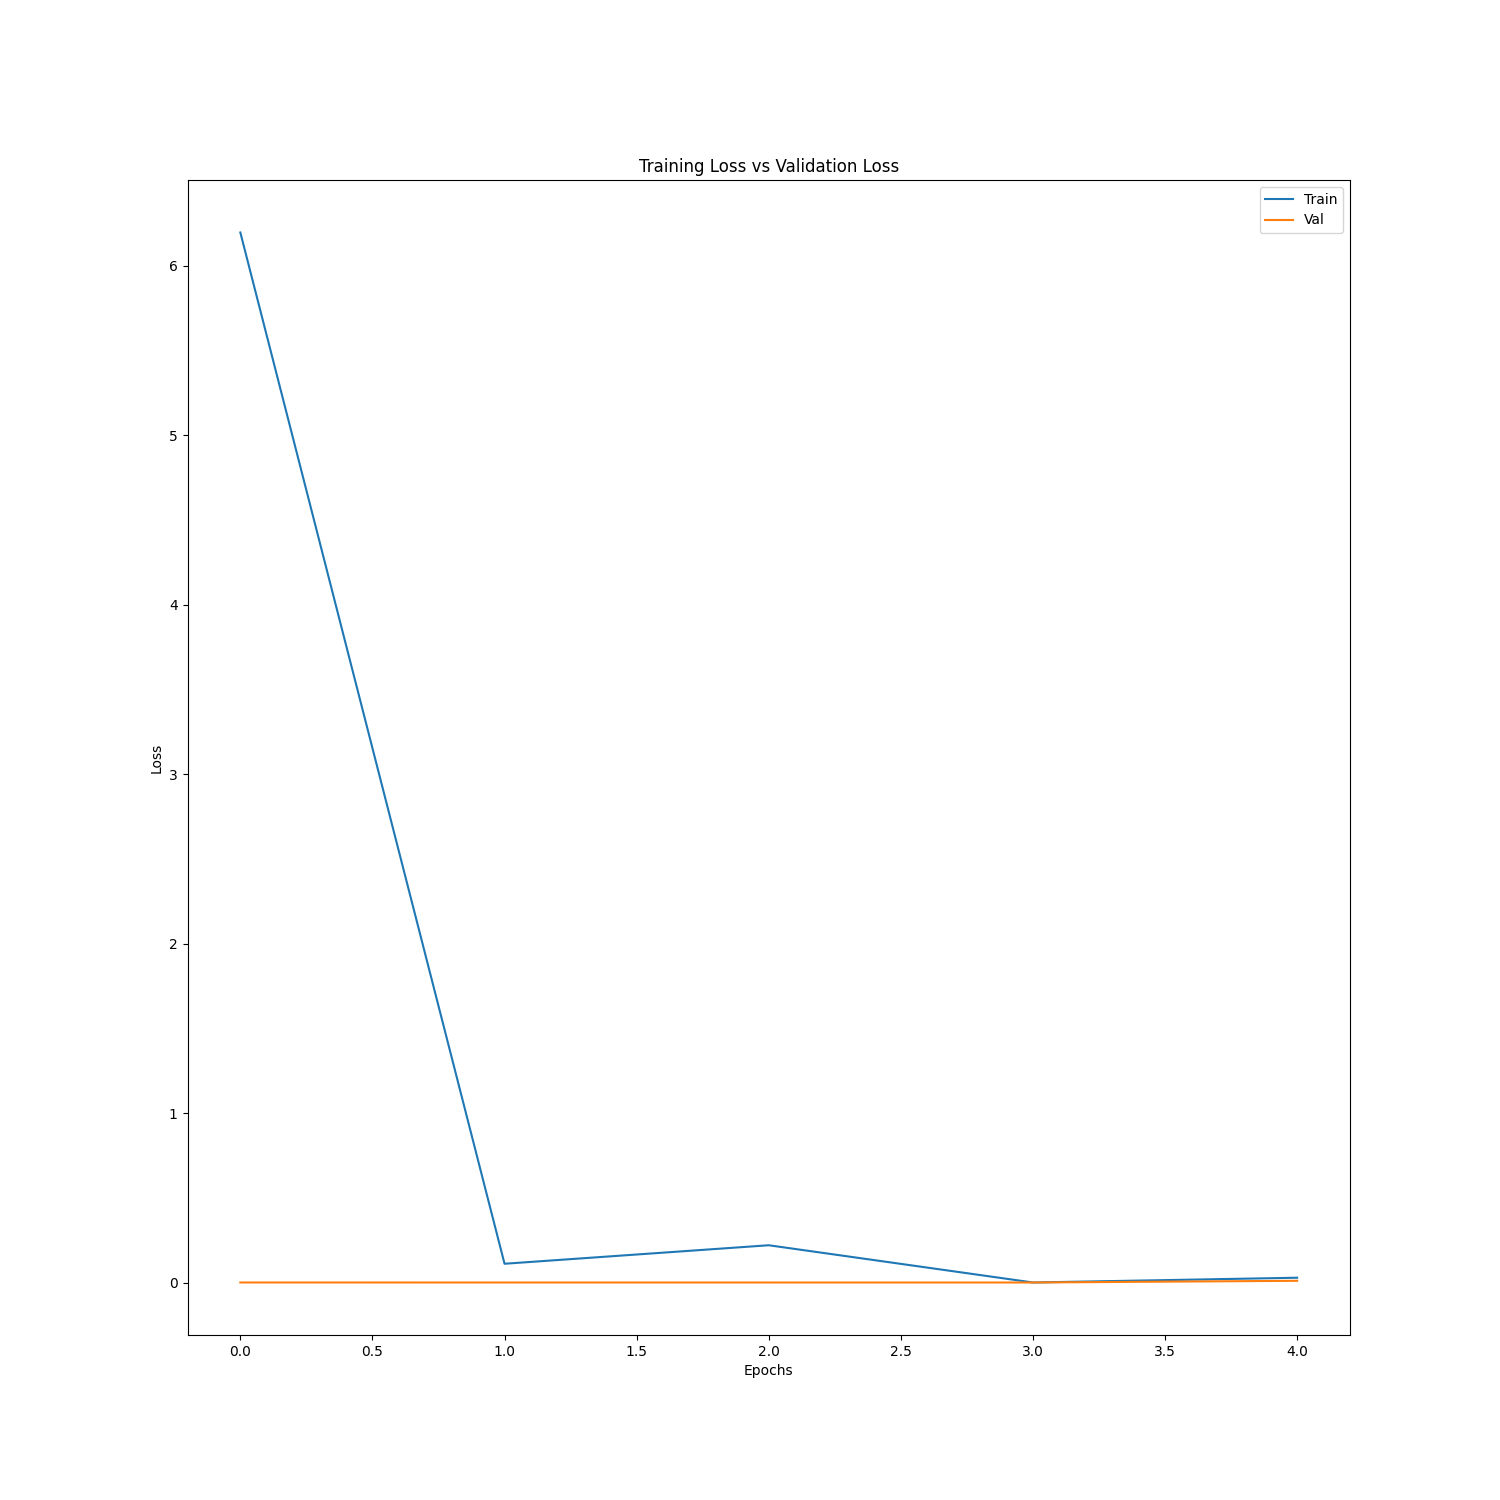
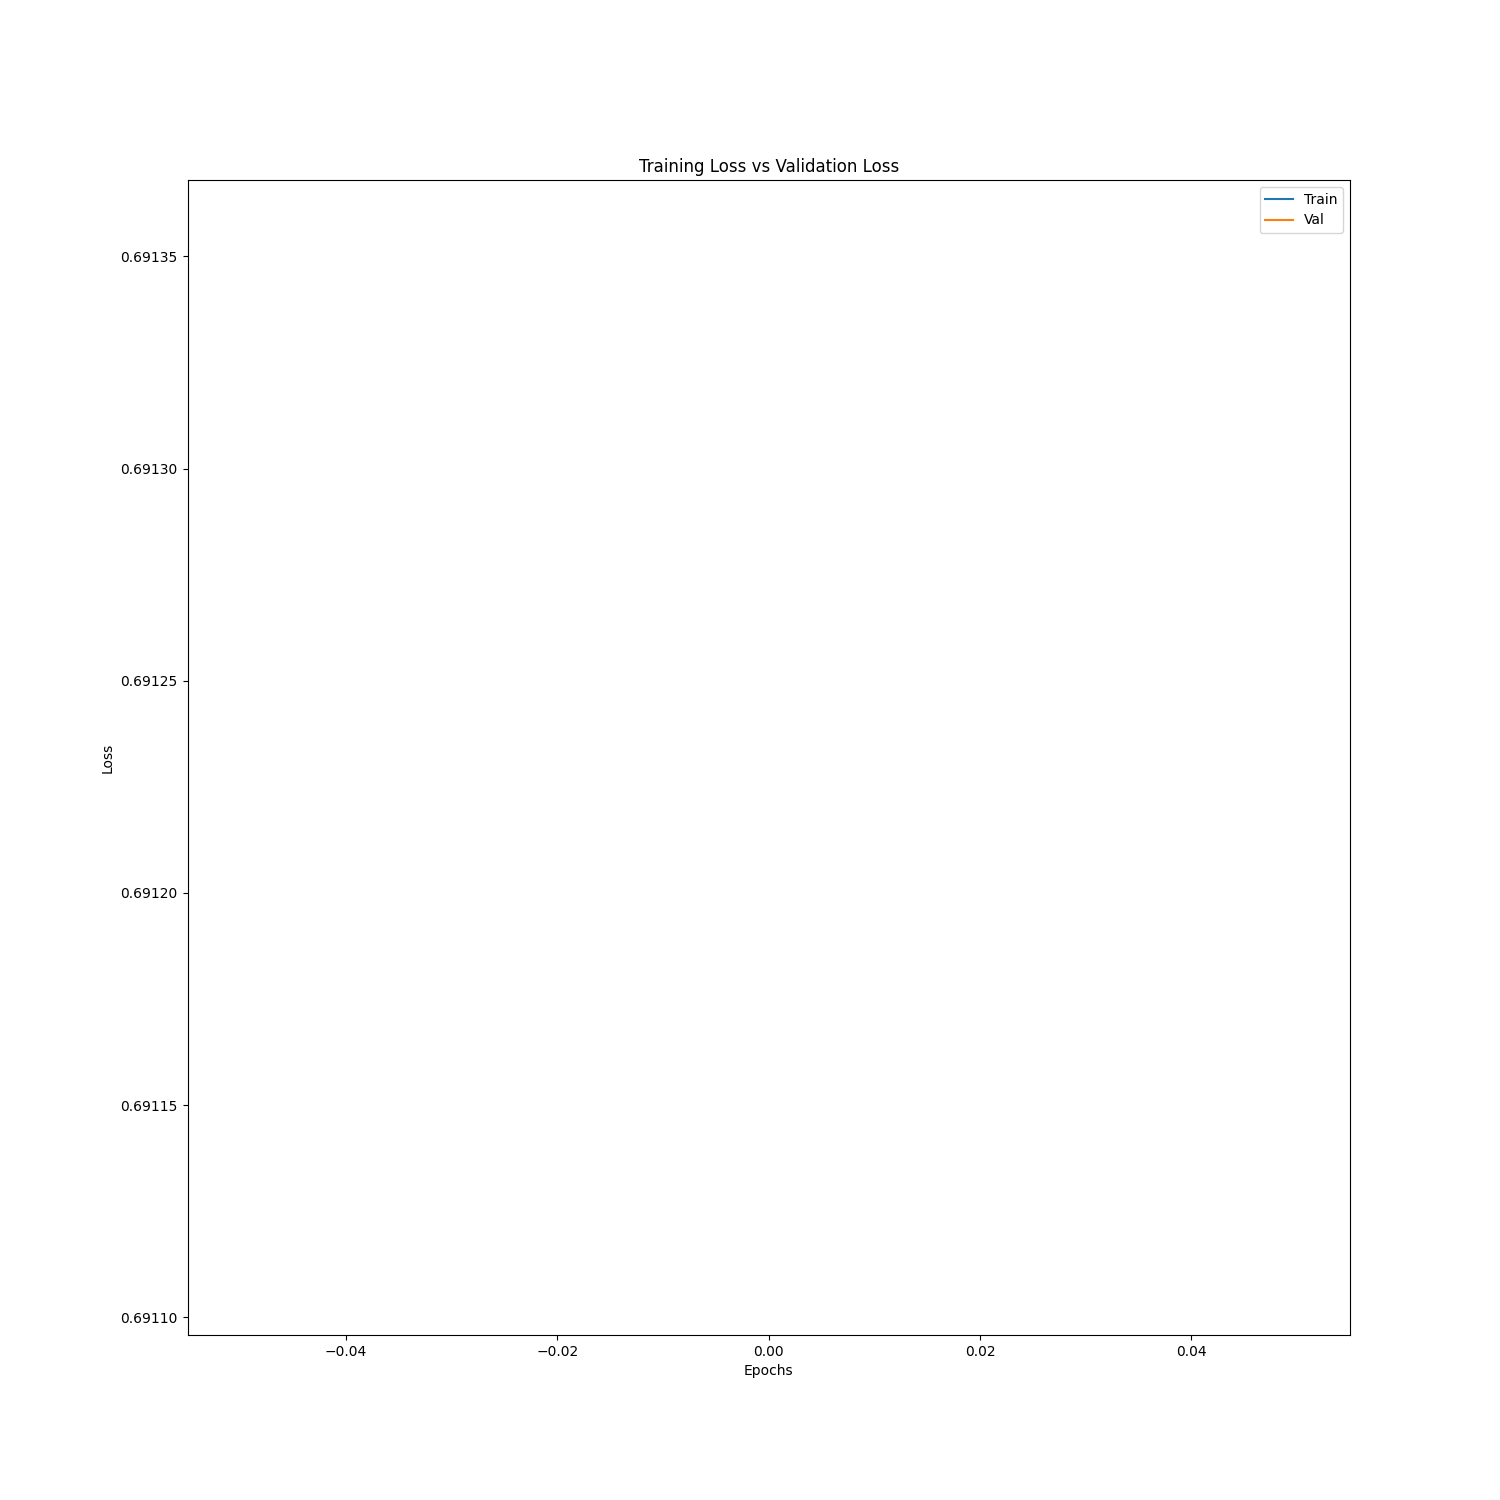
improve autoencode to gen 5 features

Changed region(s): [[0.3373, 0.828, 0.6747, 0.8587], [0.7973, 0.828, 0.8587, 0.8587], [0.092, 0.1533, 0.1227, 0.184]]

diff --git a/code/auto-encoder.py b/code/auto-encoder.py
@@ -7,6 +7,20 @@ import pandas as pd
 from sklearn.model_selection import train_test_split
 from preproc_BOW import gen_BOW_dataframe
 
+
+import os
+import numpy as np # linear algebra
+import pandas as pd # data processing, CSV file I/O (e.g. pd.read_csv)
+
+from numpy.random import seed
+from sklearn.preprocessing import minmax_scale
+from sklearn.model_selection import train_test_split
+from keras.layers import Input, Dense
+from keras.models import Model
+
+callback = tf.keras.callbacks.EarlyStopping(monitor='val_loss', patience=5)
+
+
 if __name__ == "__main__":
     train_data = pd.read_csv("../data/train.csv")
     # tmp = gen_BOW_data(train_data)
@@ -19,9 +33,9 @@ if __name__ == "__main__":
     X_train, x_test = train_test_split(df, test_size=0.2, random_state=45)
     print(X_train.shape)
     print(x_test.shape)
-
+    '''
     hidden_size = 100
-    latent_size = 3
+    latent_size = 2
 
     input_layer = layers.Input(shape = X_train.shape[1:])
     flattened = layers.Flatten()(input_layer)
@@ -42,7 +56,67 @@ if __name__ == "__main__":
         
     
     autoencoder.compile(optimizer='adam', loss=losses.MeanSquaredError())
-    history = autoencoder.fit(X_train, X_train, epochs=5, batch_size=100, validation_data = (x_test, x_test))
+    history = autoencoder.fit(X_train, X_train, epochs=1, batch_size=150, validation_data = (x_test, x_test), callbacks=[callback])
+
+    '''
+
+    # define the number of features
+    ncol = X_train.shape[1]
+
+    encoding_dim = 5
+
+    input_dim = Input(shape = (ncol, ))
+
+    # Encoder Layers
+    encoded7 = Dense(1250, activation = 'relu')(input_dim)
+    encoded8 = Dense(900, activation = 'relu')(encoded7)
+    encoded9 = Dense(700, activation = 'relu')(encoded8)
+    encoded10 = Dense(400, activation = 'relu')(encoded9)
+    encoded11 = Dense(200, activation = 'relu')(encoded10)
+    encoded12 = Dense(100, activation = 'relu')(encoded11)
+    encoded13 = Dense(encoding_dim, activation = 'relu')(encoded12)
+
+    # Decoder Layers
+    decoded1 = Dense(100, activation = 'relu')(encoded13)
+    decoded2 = Dense(400, activation = 'relu')(decoded1)
+    decoded3 = Dense(800, activation = 'relu')(decoded2)
+    decoded4 = Dense(1000, activation = 'relu')(decoded3)
+    decoded5 = Dense(ncol, activation = 'sigmoid')(decoded4)
+
+    # Combine Encoder and Deocder layers
+    autoencoder = Model(inputs = input_dim, outputs = decoded5)
+
+    # Compile the Model
+    autoencoder.compile(optimizer = 'adadelta', loss = 'binary_crossentropy')
+
+
+    history = autoencoder.fit(X_train, X_train, epochs = 10, batch_size = 150, shuffle = False, validation_data = (x_test, x_test), callbacks=[callback])
+
+
+    # Use Encoder level to reduce dimension of train and test data¶
+    encoder = Model(inputs = input_dim, outputs = encoded13)
+    encoded_input = Input(shape = (encoding_dim, ))
+
+    encoded_train = pd.DataFrame(encoder.predict(X_train))
+    encoded_train = encoded_train.add_prefix('hastag_encoded_')
+
+    encoded_test = pd.DataFrame(encoder.predict(x_test))
+    encoded_test = encoded_test.add_prefix('hastag_encoded_')
+
+
+
+    print(encoded_train.shape)
+    encoded_train.head()
+
+    print(encoded_test.shape)
+    encoded_test.head()
+
+
+
+    encoded_train.to_csv('train_encoded.csv', index=False)
+    encoded_test.to_csv('test_encoded.csv', index=False)
+
+
 
 
     fig, axs = plt.subplots(figsize=(15,15))
